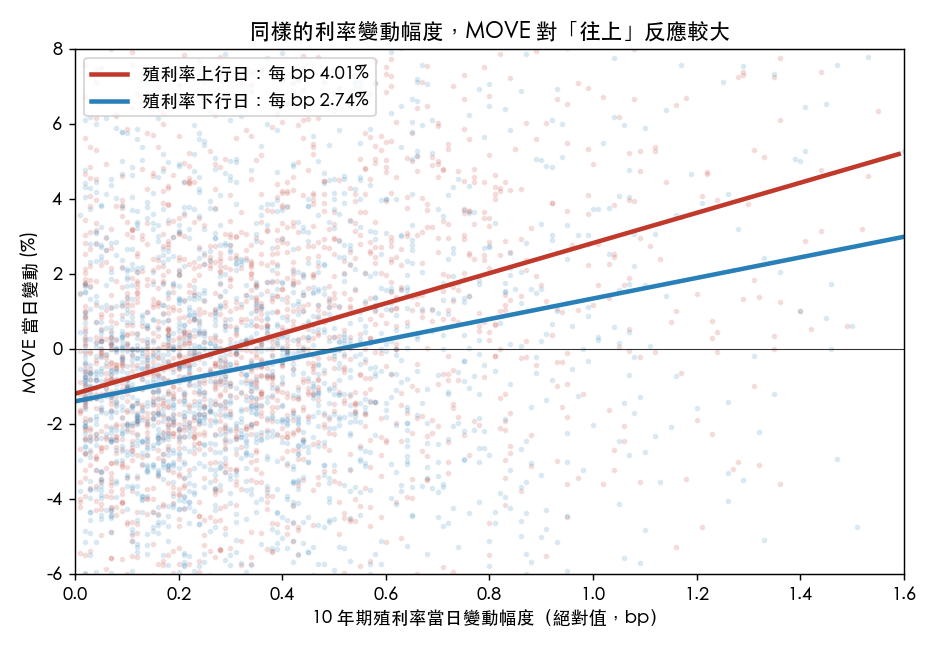
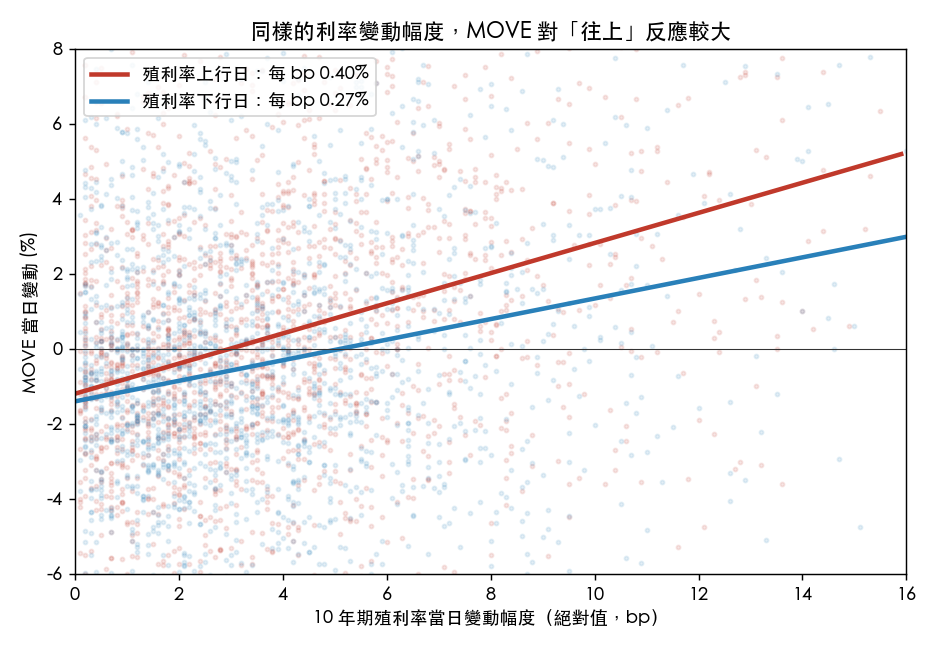
ops(orphan-sweep): persist trending fed-move-asymmetry re-render outputs (post-7b558f3e3 modifications)

diff --git a/experiments/trending_2026_07_06_fed_move_asymmetry/asymmetry.py b/experiments/trending_2026_07_06_fed_move_asymmetry/asymmetry.py
@@ -5,7 +5,7 @@ trending_2026_07_06_fed_move_asymmetry
 角度差異化：不是 6/12 的 MOVE/VIX 跨資產比值，也不是 6/22 的 MOVE-VIX 滾動相關，
 而是「higher-for-longer regime 下，債市波動率定價是否對利率上行 shock 更敏感」。
 
-資料：Yahoo Finance ^MOVE（ICE BofA MOVE Index）、^TNX（CBOE 10Y Treasury yield ×10）。
+資料：Yahoo Finance ^MOVE（ICE BofA MOVE Index）、^TNX（10Y Treasury yield, percent）。
 方法：
   1. 同日條件化：以 10Y 殖利率日變動方向分組，比較當日 MOVE 日變動百分比（Welch t-test）。
   2. 殖利率半變異數非對稱（realized semivariance ratio）。
@@ -40,7 +40,9 @@ def fetch():
 def main():
     df = fetch()
     df["move_ret"] = df["MOVE"].pct_change() * 100.0        # MOVE 日變動 %
-    df["yld_chg_bp"] = df["TNX"].diff() * 10.0              # 10Y 殖利率日變動 (TNX 已 ×10 → diff×10 = bp)
+    # yfinance returns ^TNX in percentage-point yield units (e.g. 4.485 for 4.485%).
+    # A 0.01 percentage-point move is 1 bp, hence diff * 100.
+    df["yld_chg_bp"] = df["TNX"].diff() * 100.0             # 10Y 殖利率日變動 (bp)
     d = df.dropna().copy()
 
     up = d[d["yld_chg_bp"] > 0]     # 殖利率上行日

diff --git a/experiments/trending_2026_07_06_fed_move_asymmetry/README.md b/experiments/trending_2026_07_06_fed_move_asymmetry/README.md
@@ -12,7 +12,7 @@
   已過 `check_arc_dedup.py`（exit 0，narrative_axis 不同）。
 
 ## 資料
-- Yahoo Finance `^MOVE`（ICE BofA MOVE Index）、`^TNX`（CBOE 10Y Treasury yield ×10）
+- Yahoo Finance `^MOVE`（ICE BofA MOVE Index）、`^TNX`（10Y Treasury yield, percent）
 - 期間 2010-01-05 ~ 2026-07-02，4,065 交易日（上行 1,968 / 下行 2,032）
 
 ## 方法
@@ -26,8 +26,8 @@
 | 指標 | 上行日 | 下行日 | 差異 |
 |---|---:|---:|---:|
 | MOVE 當日平均變動 | +0.510% | −0.280% | +0.79pp（t=5.52, p=3.6e-08） |
-| 每 bp 斜率（控制幅度） | 4.01%/bp | 2.74%/bp | 比值 1.465 |
-| 殖利率半變異數 | 604 bp² | 582 bp² | 比值 1.038（近對稱） |
+| 每 bp 斜率（控制幅度） | 0.401%/bp | 0.274%/bp | 比值 1.465 |
+| 殖利率半變異數 | 60,396 bp² | 58,182 bp² | 比值 1.038（近對稱） |
 | 近 90 日均變動 | +2.15% | −2.39% | +4.53pp（regime 放大） |
 
 Bootstrap 95% CI（上−下）= [+0.50, +1.07] pp，不含 0。
